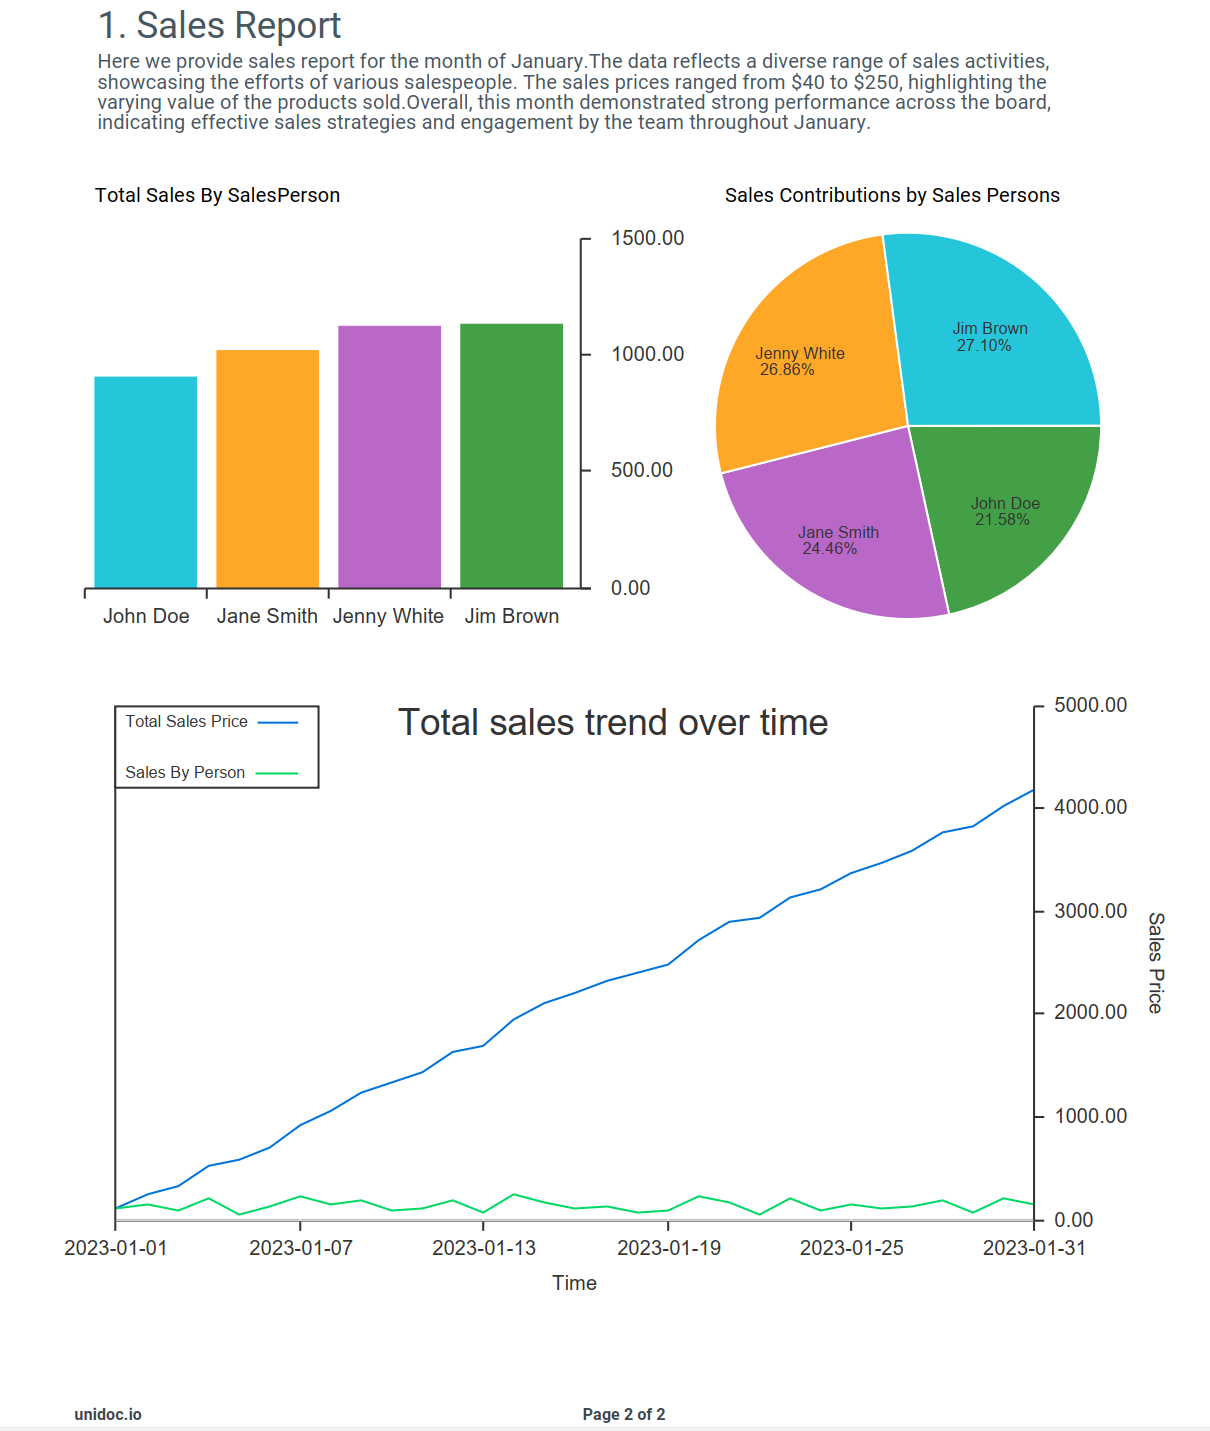
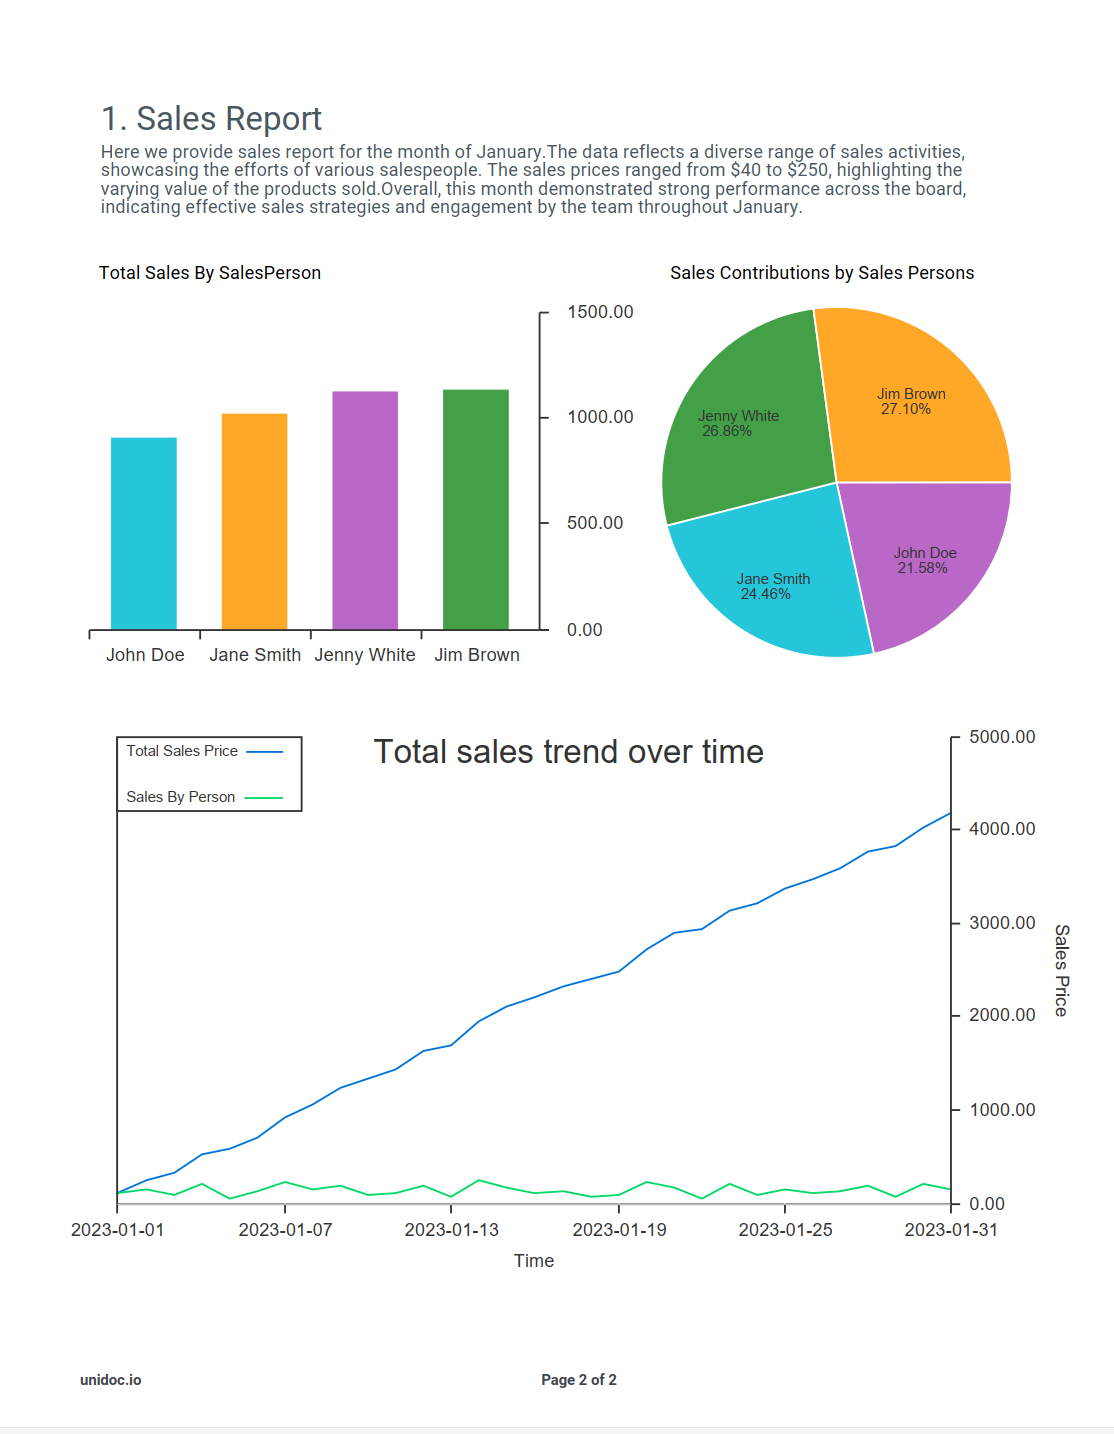
made some updates

diff --git a/report/pdf_report_from_csv.go b/report/pdf_report_from_csv.go
@@ -1,3 +1,8 @@
+/*
+ * This example showcases how to prepare report with charts from csv data.
+ *
+ * Run as: go run pdf_report_from_csv.go
+ */
 package main
 
 import (
@@ -13,6 +18,7 @@ import (
 	"github.com/unidoc/unichart/dataset"
 	"github.com/unidoc/unichart/dataset/sequence"
 	"github.com/unidoc/unichart/render"
+	"github.com/unidoc/unipdf/v3/common"
 	"github.com/unidoc/unipdf/v3/common/license"
 	"github.com/unidoc/unipdf/v3/creator"
 	"github.com/unidoc/unipdf/v3/model"
@@ -46,19 +52,22 @@ type salesData struct {
 func main() {
 	robotoFontRegular, err := model.NewPdfFontFromTTFFile("./Roboto-Regular.ttf")
 	if err != nil {
-		panic(err)
+		common.Log.Info("Failed to load font %s", err)
+		return
 	}
 
 	robotoFontPro, err := model.NewPdfFontFromTTFFile("./Roboto-Bold.ttf")
 	if err != nil {
-		panic(err)
+		common.Log.Info("Failed to load font %s", err)
+		return
 	}
 
 	c := creator.New()
 	filePath := "./test-data.csv"
 	data, _, err := loadCsv(filePath)
 	if err != nil {
-		panic("failed to load data ")
+		common.Log.Info("failed to load data %s", err)
+		return
 	}
 
 	cumulativeSums := make(map[string]float64) // Cumulative Sales by person
@@ -129,7 +138,8 @@ func main() {
 	err = c.Draw(barChart)
 
 	if err != nil {
-		panic(err)
+		common.Log.Info("Failed to draw chart. %s.", err)
+		return
 	}
 
 	// Create pie chart
@@ -146,7 +156,8 @@ func main() {
 	pieChart.SetPos(360, 170)
 	err = c.Draw(pieChart)
 	if err != nil {
-		panic(err)
+		common.Log.Info("Failed to draw pie chart. %s", err)
+		return
 	}
 
 	// Create Line Chart
@@ -160,12 +171,14 @@ func main() {
 	err = c.Draw(lineChart)
 
 	if err != nil {
-		panic(err)
+		common.Log.Info("Failed to draw line chart. %s", err)
+		return
 	}
 
 	err = c.WriteToFile("report_from_csv.pdf")
 	if err != nil {
-		panic(err)
+		common.Log.Info("Failed to write to file. %s", err)
+		return
 	}
 }
 
@@ -223,7 +236,8 @@ func doFirstPage(c *creator.Creator, fontRegular *model.PdfFont, fontBold *model
 // createBarChart creates a bar chart given `valMap`.
 func createBarChart(valMap map[string]float64) render.ChartRenderable {
 	chart := &unichart.BarChart{
-		Bars: parseChartValMap(valMap),
+		Bars:     parseChartValMap(valMap),
+		BarWidth: 35,
 	}
 
 	// Set Y-axis custom range.

diff --git a/report/README.md b/report/README.md
@@ -7,4 +7,4 @@ The example explains how to create PDF reports using UniPDF, it also shows you h
 - [pdf_report.go](pdf_report.go) The example showcases PDF report generation with UniPDF's creator package. The output is saved as unidoc-report.pdf which illustrates some of the features of the creator.
 - [pdf_tables.go](pdf_tables.go) The example showcases PDF tables features using UniPDF's creator package. The output is saved as UniPDF-tables.pdf which illustrates some of the features of the creator.
 - [pdf_custom_toc.go](pdf_custom_toc.go) The example showcases the capabilities of generating PDF custom table of contents layout. The output is saved as pdf-custom-toc.pdf.
-- [pdf_report_from_csv.go](pdf_report_from_csv.go) This example showcases how to prepared report from csv data.
+- [pdf_report_from_csv.go](pdf_report_from_csv.go) This example showcases how to prepare a report from csv data.
